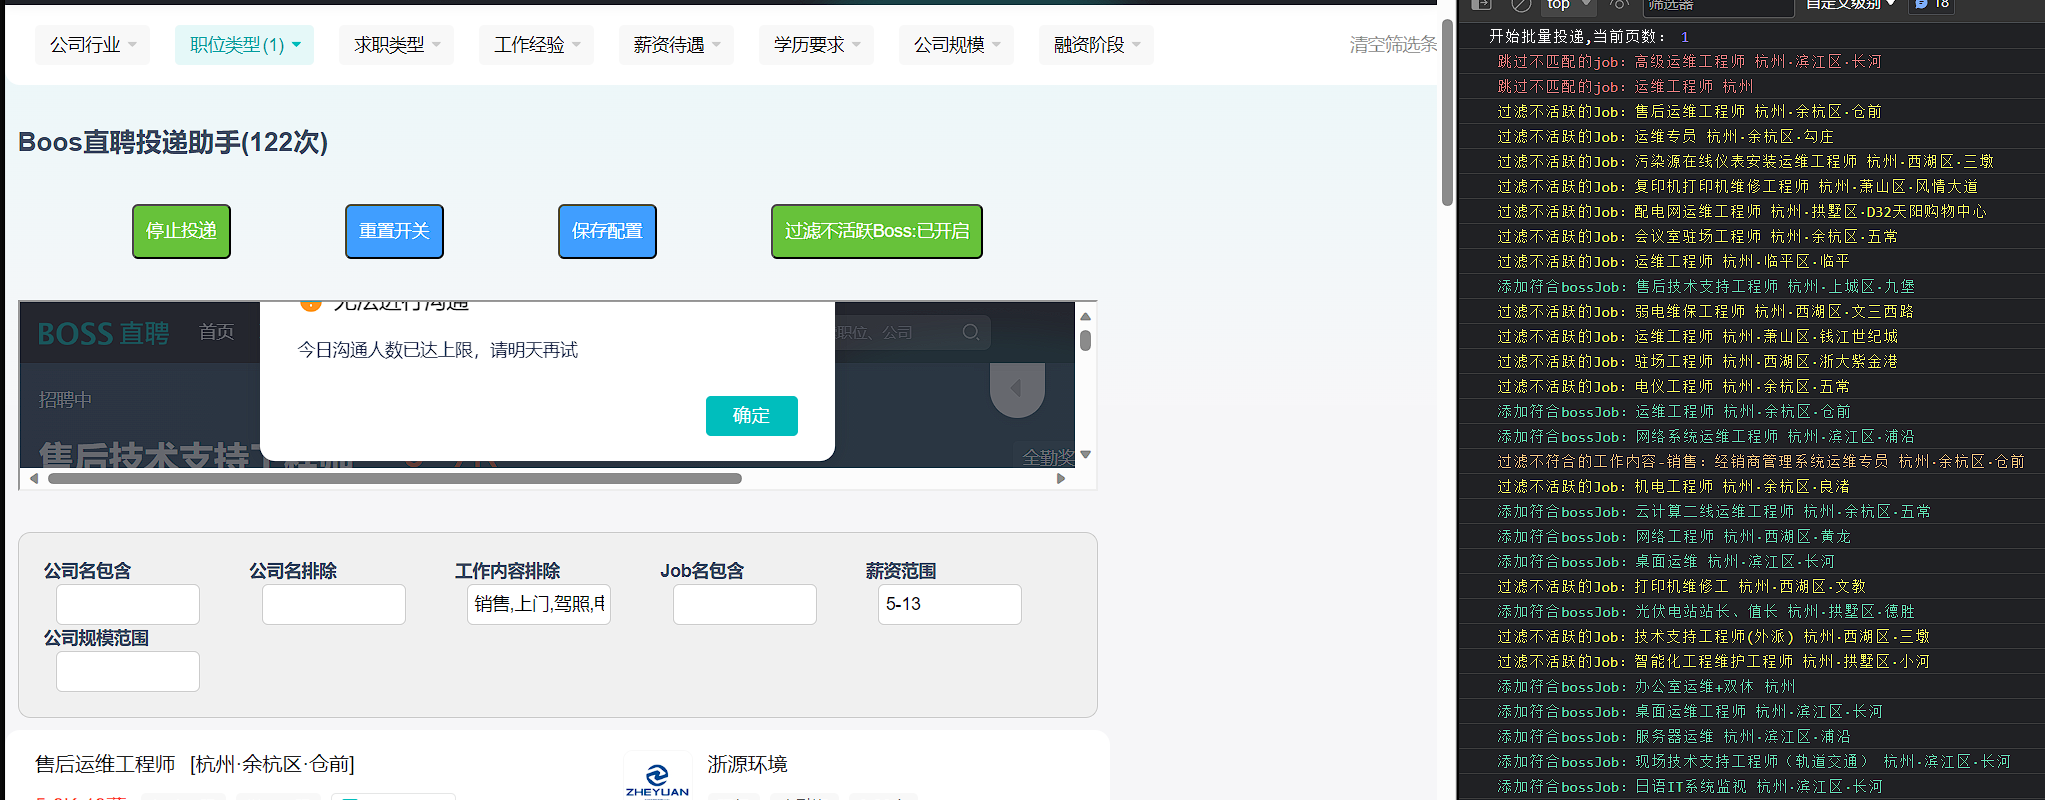
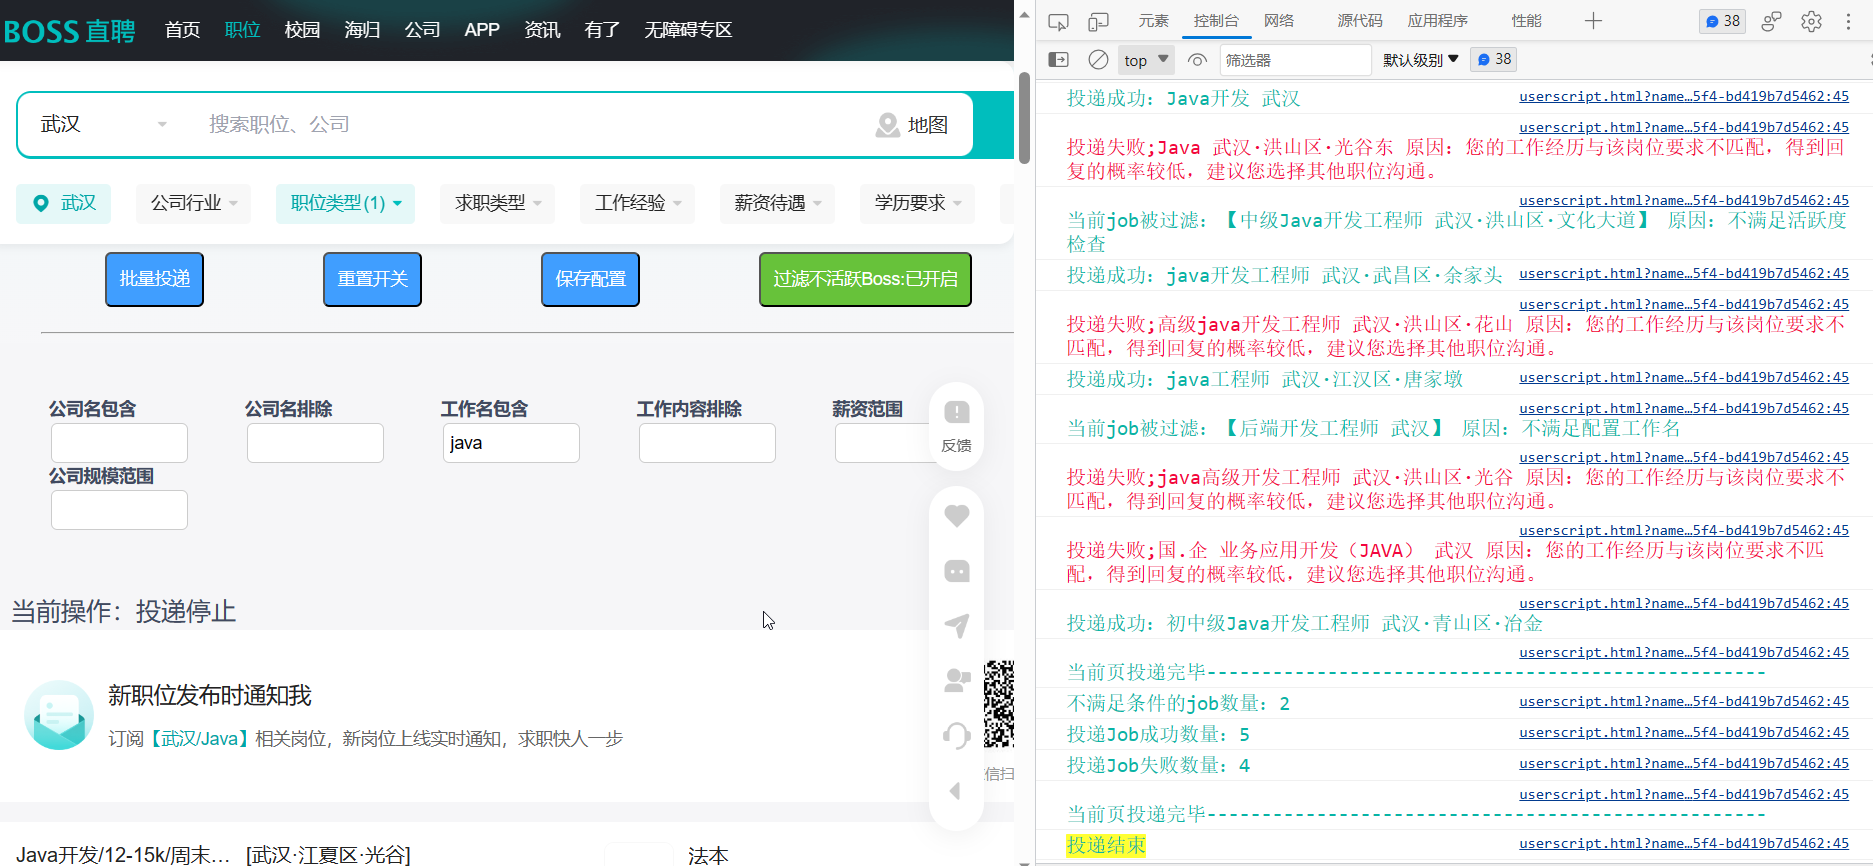
perf:添加文本显示当前投递状态

diff --git a/src/oop-self-req-main.js b/src/oop-self-req-main.js
@@ -410,6 +410,9 @@ class OperationPanel {
         this.srInInputLab = salaryRangeInput
         this.csrInInputLab = companyScaleRangeInput
 
+        // 进度显示
+        this.showTable = this.buildShowTable();
+
         // 操作面板结构：
         let operationPanel = DOMApi.createTag("div");
         // 说明文档
@@ -424,6 +427,7 @@ class OperationPanel {
         operationPanel.appendChild(btnContainerDiv)
         operationPanel.appendChild(this.hrTag())
         operationPanel.appendChild(inputContainerDiv)
+        operationPanel.appendChild(this.showTable)
 
         // 找到页面锚点并将操作面板添加入页面
         let timingCutPageTask = setInterval(() => {
@@ -443,6 +447,10 @@ class OperationPanel {
 
     registerEvent() {
         TampermonkeyApi.GmAddValueChangeListener(ScriptConfig.PUSH_COUNT, this.publishCountChangeEventHandler.bind(this))
+    }
+
+    refreshShow(text) {
+        this.showTable.innerHTML = "当前操作：" + text
     }
 
 
@@ -501,6 +509,11 @@ class OperationPanel {
         });
 
         return aboutDiv;
+    }
+
+
+    buildShowTable() {
+        return DOMApi.createTag('p', '', 'font-size: 20px;color: rgb(64, 158, 255);margin-left: 50px;');
     }
 
 
@@ -572,7 +585,7 @@ class ScriptConfig extends TampermonkeyApi {
     static PUSH_COUNT = "pushCount:" + ScriptConfig.getCurDay();
     static SCRIPT_ENABLE = "script_enable";
     static ACTIVE_ENABLE = "activeEnable";
-    static PUSH_LIMIT = "push_limit";
+    static PUSH_LIMIT = "push_limit" + ScriptConfig.getCurDay();
     // 投递锁是否被占用，可重入；value表示当前正在投递的job
     static PUSH_LOCK = "push_lock";
 
@@ -804,6 +817,7 @@ class JobListPageHandler {
             return;
         }
         // 每次投递前清空投递锁，未被占用
+        this.scriptConfig.setVal(ScriptConfig.PUSH_LIMIT, false)
         TampermonkeyApi.GmSetValue(ScriptConfig.PUSH_LOCK, "")
         // 每次读取操作面板中用户实时输入的值
         this.operationPanel.readInputConfig()
@@ -825,6 +839,7 @@ class JobListPageHandler {
 
             if (!this.publishState) {
                 logger.info("投递结束")
+                this.operationPanel.refreshShow("投递停止")
                 this.changeBatchPublishState(false);
                 return;
             }
@@ -870,6 +885,7 @@ class JobListPageHandler {
                     // 需要结束整个promiseChain，在catch throw exp,但还会继续执行下一个元素catch中的逻辑
                     switch (true) {
                         case error instanceof JobNotMatchExp:
+                            this.operationPanel.refreshShow(jobTitle + " 不满足投递条件")
                             ++notMatchCount;
                             break;
 
@@ -879,11 +895,13 @@ class JobListPageHandler {
 
                         case error instanceof SendPublishExp:
                             logger.error("投递失败;" + jobTitle + " 原因：" + error.message);
+                            this.operationPanel.refreshShow(jobTitle + " 投递失败")
                             publishResultCount.failCount++
                             break;
 
                         case error instanceof PublishLimitExp:
                             TampermonkeyApi.GmSetValue(ScriptConfig.PUSH_LIMIT, true);
+                            this.operationPanel.refreshShow("停止投递 " + error.message)
                             logger.error("投递停止; 原因：" + error.message);
                             throw new PublishStopExp(error.message)
 
@@ -1022,6 +1040,7 @@ class JobListPageHandler {
                 TampermonkeyApi.GmSetValue(ScriptConfig.PUSH_LOCK, jobTitle)
                 logger.debug("锁定投递锁：" + jobTitle)
 
+                this.operationPanel.refreshShow("正在投递-->" + jobTitle)
                 // 投递请求
                 axios.post(url, null, {headers: {"Zp_token": Tools.getCookieValue("geek_zp_token")}})
                     .then(resp => {
